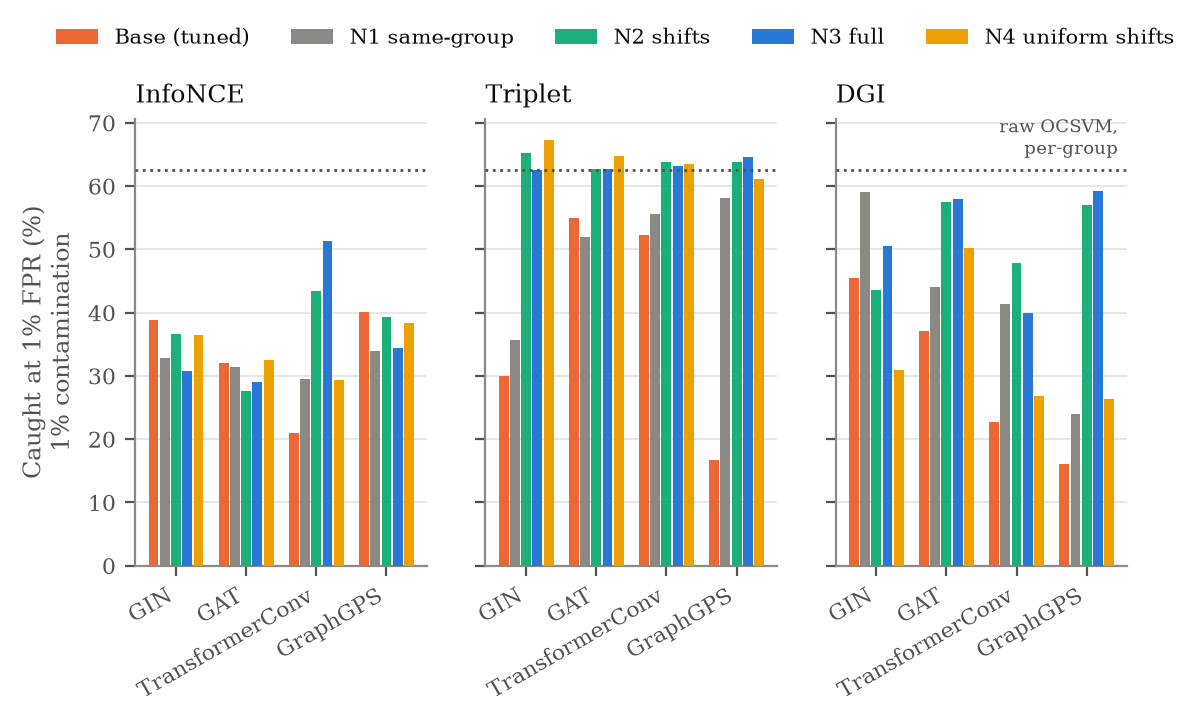
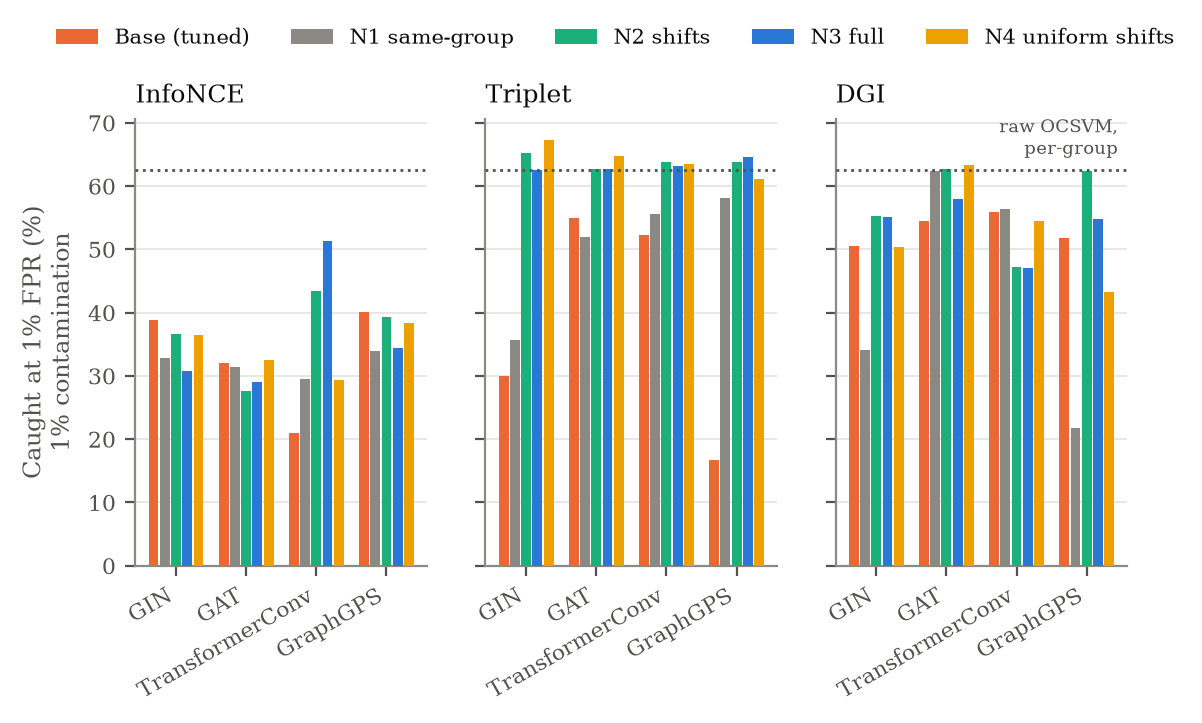
new figures and tables

Changed region(s): [[0.708, 0.213, 0.9542, 0.639], [0.8927, 0.2434, 0.9235, 0.3043]]

diff --git a/thesis_out/tables/tab_svdd.tex b/thesis_out/tables/tab_svdd.tex
@@ -4,26 +4,26 @@
 \caption{Control with a one-class objective: Deep SVDD on the same encoders (test set, family-weighted).}
 \label{tab:svdd}
 \begin{adjustbox}{max width=\linewidth}
-\begin{tabular}{lcccccc}
+\begin{tabular}{lccccccc}
 \toprule
-Encoder & ROC-AUC & Caught (\%) & Conn. AUC & Iso. AUC & AUC 1\% & Caught 1\% (\%) \\
+Encoder & ROC-AUC & Caught (\%) & Conn. AUC & Iso. AUC & AUC 1\% & Caught 1\% (\%) & Conn. 1\% \\
 \midrule
-No graph (depth 0) & 0.955 & 52.4 $\pm$ 3.8 & 0.919 & 0.969 & 0.864 & 14.4 $\pm$ 4.4 \\
-GIN, depth 1 & 0.937 & 48.2 $\pm$ 12.4 & 0.861 & 0.962 & 0.834 & 5.7 $\pm$ 2.0 \\
-GIN, depth 2 & 0.952 & 58.1 $\pm$ 8.5 & 0.903 & 0.964 & 0.835 & 15.0 $\pm$ 1.9 \\
-GAT, depth 1 & 0.801 & 41.3 $\pm$ 14.7 & 0.435 & 0.909 & 0.787 & 21.0 $\pm$ 12.8 \\
-GAT, depth 2 & 0.941 & 59.9 $\pm$ 3.7 & 0.858 & 0.968 & 0.819 & 10.1 $\pm$ 5.0 \\
-TransformerConv, depth 1 & 0.888 & 58.8 $\pm$ 5.2 & 0.813 & 0.949 & 0.874 & 25.7 $\pm$ 19.9 \\
-TransformerConv, depth 2 & 0.936 & 34.0 $\pm$ 11.1 & 0.858 & 0.963 & 0.659 & 8.0 $\pm$ 0.8 \\
-GraphGPS, depth 1 & 0.940 & 49.0 $\pm$ 12.4 & 0.861 & 0.966 & 0.870 & 6.8 $\pm$ 2.0 \\
-GraphGPS, depth 2 & 0.957 & 49.6 $\pm$ 2.9 & 0.922 & 0.969 & 0.877 & 15.4 $\pm$ 5.4 \\
+No graph (depth 0) & 0.955 & 52.4 $\pm$ 3.8 & 0.919 & 0.969 & 0.864 & 14.4 $\pm$ 4.4 & 0.908 \\
+GIN, depth 1 & 0.937 & 48.2 $\pm$ 12.4 & 0.861 & 0.962 & 0.834 & 5.7 $\pm$ 2.0 & 0.854 \\
+GIN, depth 2 & 0.952 & 58.1 $\pm$ 8.5 & 0.903 & 0.964 & 0.835 & 15.0 $\pm$ 1.9 & 0.892 \\
+GAT, depth 1 & 0.801 & 41.3 $\pm$ 14.7 & 0.435 & 0.909 & 0.787 & 21.0 $\pm$ 12.8 & 0.427 \\
+GAT, depth 2 & 0.941 & 59.9 $\pm$ 3.7 & 0.858 & 0.968 & 0.819 & 10.1 $\pm$ 5.0 & 0.834 \\
+TransformerConv, depth 1 & 0.888 & 58.8 $\pm$ 5.2 & 0.813 & 0.949 & 0.874 & 25.7 $\pm$ 19.9 & 0.799 \\
+TransformerConv, depth 2 & 0.936 & 34.0 $\pm$ 11.1 & 0.858 & 0.963 & 0.659 & 8.0 $\pm$ 0.8 & 0.839 \\
+GraphGPS, depth 1 & 0.940 & 49.0 $\pm$ 12.4 & 0.861 & 0.966 & 0.870 & 6.8 $\pm$ 2.0 & 0.855 \\
+GraphGPS, depth 2 & 0.957 & 49.6 $\pm$ 2.9 & 0.922 & 0.969 & 0.877 & 15.4 $\pm$ 5.4 & 0.904 \\
 \midrule
-\multicolumn{7}{l}{\textit{GIN with sum aggregation (preliminary comparison)}} \\
-GIN sum, depth 1 & 0.885 & 44.4 $\pm$ 9.8 & 0.683 & 0.966 & 0.755 & 7.3 $\pm$ 1.2 \\
-GIN sum, depth 2 & 0.897 & 45.7 $\pm$ 11.9 & 0.703 & 0.965 & 0.649 & 5.4 $\pm$ 0.2 \\
+\multicolumn{8}{l}{\textit{GIN with sum aggregation (preliminary comparison)}} \\
+GIN sum, depth 1 & 0.885 & 44.4 $\pm$ 9.8 & 0.683 & 0.966 & 0.755 & 7.3 $\pm$ 1.2 & 0.685 \\
+GIN sum, depth 2 & 0.897 & 45.7 $\pm$ 11.9 & 0.703 & 0.965 & 0.649 & 5.4 $\pm$ 0.2 & 0.687 \\
 \bottomrule
 \end{tabular}
 \end{adjustbox}
 \par\smallskip
-\parbox{0.95\linewidth}{\footnotesize Clean training unless marked 1\% (1\% contamination). Caught: share of malware flagged at 1\% FPR, mean $\pm$ standard deviation over 3 seeds; ROC-AUC of the rank-averaged ensemble. Plain scores. All encoders use mean aggregation except the last two rows, which differ from the GIN rows above only in summing the neighbours.}
+\parbox{0.95\linewidth}{\footnotesize Clean training unless marked 1\% (1\% contamination); Conn. 1\%: ROC AUC on connected releases at 1\% contamination. Caught: share of malware flagged at 1\% FPR, mean $\pm$ standard deviation over 3 seeds; ROC-AUC of the rank-averaged ensemble. Plain scores. All encoders use mean aggregation except the last two rows, which differ from the GIN rows above only in summing the neighbours.}
 \end{table}

diff --git a/thesis_out/tables/tab_contrastive_tuned.tex b/thesis_out/tables/tab_contrastive_tuned.tex
@@ -17,10 +17,10 @@ Triplet & GIN & OCSVM, depth 1 & 0.962 & 74.3 $\pm$ 1.6 & 0.925 & 0.970 \\
 Triplet & GAT & OCSVM, depth 2 & 0.953 & 67.3 $\pm$ 1.6 & 0.910 & 0.967 \\
 Triplet & TransformerConv & OCSVM, depth 1 & 0.958 & 73.3 $\pm$ 1.2 & 0.919 & 0.966 \\
 Triplet & GraphGPS & OCSVM, depth 1 & 0.963 & 73.8 $\pm$ 0.4 & 0.927 & 0.969 \\
-DGI & GIN & OCSVM, depth 1 & 0.958 & 71.6 $\pm$ 0.7 & 0.910 & 0.971 \\
-DGI & GAT & OCSVM, depth 1 & 0.959 & 68.2 $\pm$ 1.9 & 0.909 & 0.974 \\
-DGI & TransformerConv & OCSVM, depth 1 & 0.958 & 72.4 $\pm$ 1.0 & 0.916 & 0.972 \\
-DGI & GraphGPS & OCSVM, depth 1 & 0.954 & 69.7 $\pm$ 2.8 & 0.905 & 0.966 \\
+DGI & GIN & OCSVM, depth 1 & 0.962 & 74.5 $\pm$ 1.4 & 0.921 & 0.973 \\
+DGI & GAT & OCSVM, depth 1 & 0.960 & 73.3 $\pm$ 1.9 & 0.913 & 0.973 \\
+DGI & TransformerConv & OCSVM, depth 1 & 0.959 & 73.0 $\pm$ 1.8 & 0.919 & 0.970 \\
+DGI & GraphGPS & OCSVM, depth 1 & 0.962 & 72.1 $\pm$ 1.4 & 0.920 & 0.974 \\
 \multicolumn{3}{l}{Raw One-Class SVM (reference)} & 0.963 & 73.9 & 0.935 & 0.971 \\
 \multicolumn{7}{l}{\textit{Contamination 1\%}} \\
 InfoNCE & GIN & OCSVM, depth 1 & 0.941 & 38.8 $\pm$ 11.0 & 0.898 & 0.946 \\
@@ -31,10 +31,10 @@ Triplet & GIN & OCSVM, depth 1 & 0.938 & 30.0 $\pm$ 1.3 & 0.904 & 0.929 \\
 Triplet & GAT & OCSVM, depth 2 & 0.930 & 55.0 $\pm$ 11.7 & 0.861 & 0.948 \\
 Triplet & TransformerConv & OCSVM, depth 1 & 0.941 & 52.4 $\pm$ 12.4 & 0.892 & 0.952 \\
 Triplet & GraphGPS & OCSVM, depth 2 & 0.937 & 16.7 $\pm$ 1.2 & 0.911 & 0.923 \\
-DGI & GIN & IF, depth 1 & 0.951 & 45.5 $\pm$ 6.1 & 0.903 & 0.962 \\
-DGI & GAT & OCSVM, depth 1 & 0.945 & 37.1 $\pm$ 9.6 & 0.886 & 0.955 \\
-DGI & TransformerConv & OCSVM, depth 1 & 0.935 & 22.7 $\pm$ 2.7 & 0.897 & 0.947 \\
-DGI & GraphGPS & IF, depth 1 & 0.938 & 16.0 $\pm$ 4.8 & 0.878 & 0.960 \\
+DGI & GIN & OCSVM, depth 1 & 0.950 & 50.6 $\pm$ 19.5 & 0.898 & 0.963 \\
+DGI & GAT & OCSVM, depth 1 & 0.947 & 54.5 $\pm$ 9.8 & 0.883 & 0.964 \\
+DGI & TransformerConv & OCSVM, depth 1 & 0.947 & 55.9 $\pm$ 11.1 & 0.902 & 0.960 \\
+DGI & GraphGPS & IF, depth 1 & 0.947 & 51.8 $\pm$ 14.2 & 0.886 & 0.965 \\
 \multicolumn{3}{l}{Raw One-Class SVM (reference)} & 0.951 & 34.9 $\pm$ 1.7 & 0.921 & 0.963 \\
 \bottomrule
 \end{tabular}

diff --git a/thesis_out/tables/tab_baselines.tex b/thesis_out/tables/tab_baselines.tex
@@ -19,11 +19,11 @@ LOF & 0.914 [0.903, 0.923] & 43.7 [40.6, 46.8] & 0.848 & 0.933 \\
 One-Class SVM & 0.963 [0.957, 0.969] & 73.9 [70.6, 76.8] & 0.935 & 0.971 \\
 One-Class SVM, per-group thresholds & 0.962 [0.956, 0.968] & 74.6 [71.1, 77.4] & 0.935 & 0.971 \\
 \midrule
-GuardDog rule (any rule fires) & 0.902 [0.890, 0.913] & -- & 0.808 & 0.936 \\
+GuardDog (findings + flag) & 0.902 [0.890, 0.913] & -- & 0.808 & 0.936 \\
 Random Forest, supervised (reference) & 0.986 [0.981, 0.990] & 90.6 [87.7, 92.3] & 0.966 & 0.993 \\
 \bottomrule
 \end{tabular}
 \end{adjustbox}
 \par\smallskip
-\parbox{0.95\linewidth}{\footnotesize Settings chosen on validation (pAUC up to 5\% FPR). Caught: family-weighted share of malware flagged at a 1\% false-positive rate. Connected / isolated: packages with / without dependency relations to the training graph. Scores of the 3 seeds are rank-averaged (ensemble); the One-Class SVM is deterministic, so its seeds coincide. The supervised reference uses labelled malware and is not comparable to the unsupervised detectors.}
+\parbox{0.95\linewidth}{\footnotesize Settings chosen on validation (pAUC up to 5\% FPR). Caught: family-weighted share of malware flagged at a 1\% false-positive rate. Connected / isolated: releases with / without dependency relations to the normal training releases. GuardDog is ranked by its number of findings plus the flag for the ROC AUC; as a binary rule it has a single operating point (its own FPR, Table~\ref{tab:operating}), so no caught value at 1\% FPR is given. Scores of the 3 seeds are rank-averaged (ensemble); the One-Class SVM is deterministic, so its seeds coincide. The supervised reference uses labelled malware and is not comparable to the unsupervised detectors.}
 \end{table}

diff --git a/thesis_out/tables/tab_settings.tex b/thesis_out/tables/tab_settings.tex
@@ -1,7 +1,7 @@
 \begin{table}[htbp]
 \centering
 \small
-\caption{Settings chosen on validation (mean pAUC up to 5\% FPR over 3 seeds, GIN depth 1, clean training).}
+\caption{Settings chosen on validation (mean pAUC up to 5\% FPR over 3 seeds, One-Class SVM scorer, GIN depth 1, clean training).}
 \label{tab:settings}
 \begin{adjustbox}{max width=\linewidth}
 \begin{tabular}{lcccccccc}
@@ -10,10 +10,10 @@ Loss & Epochs & Size & LR & Val. pAUC & $\nu$ & $K$ & $\lambda$ / $\beta$ & Val.
 \midrule
 InfoNCE & 100 & 64 & 0.001 & 0.861 & 2\% & 1 & 2 & 0.873 \\
 Triplet & 25 & 128 & 0.001 & 0.866 & 2\% & 1 & 2 & 0.887 \\
-DGI & 100 & 128 & 0.001 & 0.865 & 10\% & 4 & -- & 0.874 \\
+DGI & 100 & 128 & 0.0003 & 0.873 & 10\% & 4 & -- & 0.869 \\
 \bottomrule
 \end{tabular}
 \end{adjustbox}
 \par\smallskip
-\parbox{0.95\linewidth}{\footnotesize Left: training settings of the base losses (grid of 18 per loss). Right: settings of the proposed loss (grid of 18 for InfoNCE / Triplet, 6 for DGI), used for N1--N4.}
+\parbox{0.95\linewidth}{\footnotesize Left: training settings of the base losses (grid of 18 per loss). Right: settings of the proposed loss (grid of 18 for InfoNCE / Triplet, 6 for DGI), used for N1--N4. Size: width of each part of the embedding; at depth $\geq 1$ the own-feature projection and the graph output are concatenated, so the embedding is twice this size.}
 \end{table}

diff --git a/thesis_out/tables/tab_capacity.tex b/thesis_out/tables/tab_capacity.tex
@@ -1,7 +1,7 @@
 \begin{table}[htbp]
 \centering
 \small
-\caption{Capacity check: depth-1 embeddings are twice as large (own-feature projection + neighbourhood). Giving the no-graph model the same size removes most of the graph's apparent gain.}
+\caption{Capacity check: depth-1 embeddings are twice as large (own-feature projection + neighbourhood). The no-graph model is also trained at the same total size, to separate the effect of the graph from that of the embedding size.}
 \label{tab:capacity}
 \begin{adjustbox}{max width=\linewidth}
 \begin{tabular}{llcccc}
@@ -16,9 +16,9 @@ Triplet & No graph, tuned size & 0.953 & 66.2 & 0.917 & 0.963 \\
 Triplet & No graph, size 256 & 0.955 & 73.2 & 0.921 & 0.966 \\
 Triplet & GIN depth 1, tuned size & 0.962 & 74.3 & 0.925 & 0.970 \\
 \addlinespace
-DGI & No graph, tuned size & 0.952 & 70.2 & 0.913 & 0.967 \\
-DGI & No graph, size 256 & 0.958 & 73.2 & 0.918 & 0.973 \\
-DGI & GIN depth 1, tuned size & 0.958 & 71.6 & 0.910 & 0.971 \\
+DGI & No graph, tuned size & 0.957 & 73.6 & 0.922 & 0.969 \\
+DGI & No graph, size 256 & 0.955 & 73.9 & 0.915 & 0.970 \\
+DGI & GIN depth 1, tuned size & 0.962 & 74.5 & 0.921 & 0.973 \\
 \addlinespace
 \multicolumn{2}{l}{Raw One-Class SVM} & 0.963 & 73.9 & 0.935 & 0.971 \\
 \bottomrule

diff --git a/thesis_out/tables/tab_newloss_1pct.tex b/thesis_out/tables/tab_newloss_1pct.tex
@@ -18,10 +18,10 @@ Triplet & GAT & 0.930 / 55.0 & 0.928 / 52.0 & 0.951 / 62.7 & 0.949 / 62.6 & 0.94
 Triplet & TransformerConv & 0.941 / 52.4 & 0.936 / 55.6 & 0.951 / 63.9 & 0.953 / 63.3 & 0.942 / 63.6 \\
 Triplet & GraphGPS & 0.937 / 16.7 & 0.937 / 58.2 & 0.951 / 63.8 & 0.961 / 64.5 & 0.958 / 61.1 \\
 \addlinespace
-DGI & GIN & 0.951 / 45.5 & 0.951 / 59.0 & 0.949 / 43.6 & 0.951 / 50.5 & 0.945 / 30.9 \\
-DGI & GAT & 0.945 / 37.1 & 0.937 / 44.1 & 0.952 / 57.5 & 0.952 / 58.0 & 0.950 / 50.3 \\
-DGI & TransformerConv & 0.935 / 22.7 & 0.944 / 41.4 & 0.949 / 47.9 & 0.948 / 39.9 & 0.947 / 26.8 \\
-DGI & GraphGPS & 0.938 / 16.0 & 0.947 / 24.0 & 0.956 / 57.1 & 0.956 / 59.2 & 0.950 / 26.3 \\
+DGI & GIN & 0.950 / 50.6 & 0.939 / 34.1 & 0.946 / 55.4 & 0.948 / 55.1 & 0.949 / 50.4 \\
+DGI & GAT & 0.947 / 54.5 & 0.937 / 62.4 & 0.948 / 62.8 & 0.952 / 58.0 & 0.949 / 63.3 \\
+DGI & TransformerConv & 0.947 / 55.9 & 0.947 / 56.3 & 0.942 / 47.3 & 0.942 / 47.0 & 0.948 / 54.6 \\
+DGI & GraphGPS & 0.947 / 51.8 & 0.945 / 21.8 & 0.953 / 62.4 & 0.952 / 54.8 & 0.947 / 43.2 \\
 \addlinespace
 \bottomrule
 \end{tabular}

diff --git a/thesis_out/tables/tab_newloss_clean.tex b/thesis_out/tables/tab_newloss_clean.tex
@@ -18,10 +18,10 @@ Triplet & GAT & 0.953 / 67.3 & 0.952 / 68.8 & 0.961 / 71.3 & 0.963 / 71.3 & 0.95
 Triplet & TransformerConv & 0.958 / 73.3 & 0.957 / 74.0 & 0.961 / 73.5 & 0.961 / 72.2 & 0.957 / 72.0 \\
 Triplet & GraphGPS & 0.963 / 73.8 & 0.963 / 74.2 & 0.964 / 74.6 & 0.964 / 73.5 & 0.962 / 67.6 \\
 \addlinespace
-DGI & GIN & 0.958 / 71.6 & 0.962 / 70.7 & 0.960 / 73.4 & 0.959 / 73.1 & 0.962 / 72.1 \\
-DGI & GAT & 0.959 / 68.2 & 0.956 / 67.8 & 0.963 / 72.9 & 0.963 / 72.8 & 0.961 / 70.4 \\
-DGI & TransformerConv & 0.958 / 72.4 & 0.961 / 72.7 & 0.959 / 70.6 & 0.956 / 72.9 & 0.959 / 72.4 \\
-DGI & GraphGPS & 0.954 / 69.7 & 0.955 / 70.0 & 0.959 / 63.4 & 0.960 / 67.0 & 0.959 / 64.0 \\
+DGI & GIN & 0.962 / 74.5 & 0.961 / 75.0 & 0.960 / 73.6 & 0.959 / 73.0 & 0.959 / 74.0 \\
+DGI & GAT & 0.960 / 73.3 & 0.957 / 72.2 & 0.958 / 72.3 & 0.963 / 72.8 & 0.958 / 71.9 \\
+DGI & TransformerConv & 0.959 / 73.0 & 0.960 / 72.7 & 0.958 / 71.6 & 0.958 / 72.5 & 0.957 / 71.9 \\
+DGI & GraphGPS & 0.962 / 72.1 & 0.962 / 71.4 & 0.961 / 72.8 & 0.961 / 73.1 & 0.960 / 72.0 \\
 \addlinespace
 \bottomrule
 \end{tabular}

diff --git a/thesis_out/tables/tab_cola.tex b/thesis_out/tables/tab_cola.tex
@@ -8,13 +8,11 @@
 \toprule
 Contam. & Variant & ROC-AUC [95\% CI] & Caught (\%) & Connected AUC & Isolated AUC \\
 \midrule
-0\% & CoLA 1-hop (p2=0.0) & 0.205 [0.187, 0.223] & 1.4 & 0.513 & 0.159 \\
-0\% & CoLA (p2=1.0) & 0.248 [0.229, 0.267] & 2.8 & 0.500 & 0.370 \\
-1\% & CoLA 1-hop (p2=0.0) & 0.198 [0.182, 0.216] & 1.6 & 0.441 & 0.191 \\
-2\% & CoLA 1-hop (p2=0.0) & 0.185 [0.171, 0.201] & 1.1 & 0.360 & 0.200 \\
-2\% & CoLA (p2=0.5) & 0.165 [0.151, 0.181] & 1.2 & 0.318 & 0.151 \\
-5\% & CoLA 1-hop (p2=0.0) & 0.178 [0.162, 0.193] & 1.3 & 0.353 & 0.174 \\
-5\% & CoLA (p2=0.5) & 0.160 [0.146, 0.175] & 1.4 & 0.281 & 0.163 \\
+0\% & CoLA 1-hop (p2=0.0) & 0.197 [0.179, 0.216] & 1.3 & 0.501 & 0.133 \\
+0\% & CoLA (p2=1.0) & 0.233 [0.215, 0.252] & 2.7 & 0.472 & 0.329 \\
+1\% & CoLA 1-hop (p2=0.0) & 0.188 [0.172, 0.205] & 1.4 & 0.425 & 0.159 \\
+2\% & CoLA 1-hop (p2=0.0) & 0.175 [0.160, 0.191] & 1.0 & 0.347 & 0.167 \\
+5\% & CoLA 1-hop (p2=0.0) & 0.170 [0.155, 0.185] & 1.0 & 0.340 & 0.150 \\
 \bottomrule
 \end{tabular}
 \end{adjustbox}

diff --git a/thesis_out/tables/tab_sensitivity.tex b/thesis_out/tables/tab_sensitivity.tex
@@ -18,5 +18,5 @@ Rank corr. gain vs separation &  & -0.06 &  & +0.23 &  \\
 \end{tabular}
 \end{adjustbox}
 \par\smallskip
-\parbox{0.95\linewidth}{\footnotesize Gain: embedding movement per unit feature change (malware-like values), normalised by the embedding spread. Ratio: trained / untrained gain. Means over features and 3 seeds.}
+\parbox{0.95\linewidth}{\footnotesize Gain: embedding movement per unit feature change (malware-like values), normalised by the embedding spread. Ratio: trained / untrained gain. Means over features and 3 seeds. The context indicator \texttt{is\_context} is not a release feature and is excluded. Also excluded: \texttt{has\_pkg\_info}, whose gain is undefined because the malware values drawn never differ from the normal ones (almost every release has the same value).}
 \end{table}

diff --git a/thesis_out/tables/tab_operating.tex b/thesis_out/tables/tab_operating.tex
@@ -9,7 +9,7 @@
 Detector & ROC-AUC & 0.5\% & 1\% & 2\% & At GD FPR & Hard, 1\% & Prec. 1:65 \\
 \midrule
 \multicolumn{8}{l}{\textit{Clean training}} \\
-GuardDog rule (any rule fires) & 0.902 & -- & -- & -- & 83.6 (FPR 5.0) & 0.0 & 20.8 (own FPR) \\
+GuardDog (findings + flag) & 0.902 & -- & -- & -- & 83.6 (FPR 5.0) & 0.0 & 20.8 (own FPR) \\
 One-Class SVM, raw features & 0.963 & 47.4 & 73.9 & 76.3 & 84.7 & 32.7 & 53.6 \\
 Triplet + GIN, tuned base [OCSVM, depth 1] & 0.962 & 66.0 & 76.3 & 78.9 & 85.5 & 38.7 & 54.4 \\
 Triplet + GIN, N3 [OCSVM, depth 1] & 0.964 & 66.7 & 74.5 & 81.9 & 86.7 & 19.2 & 53.8 \\
